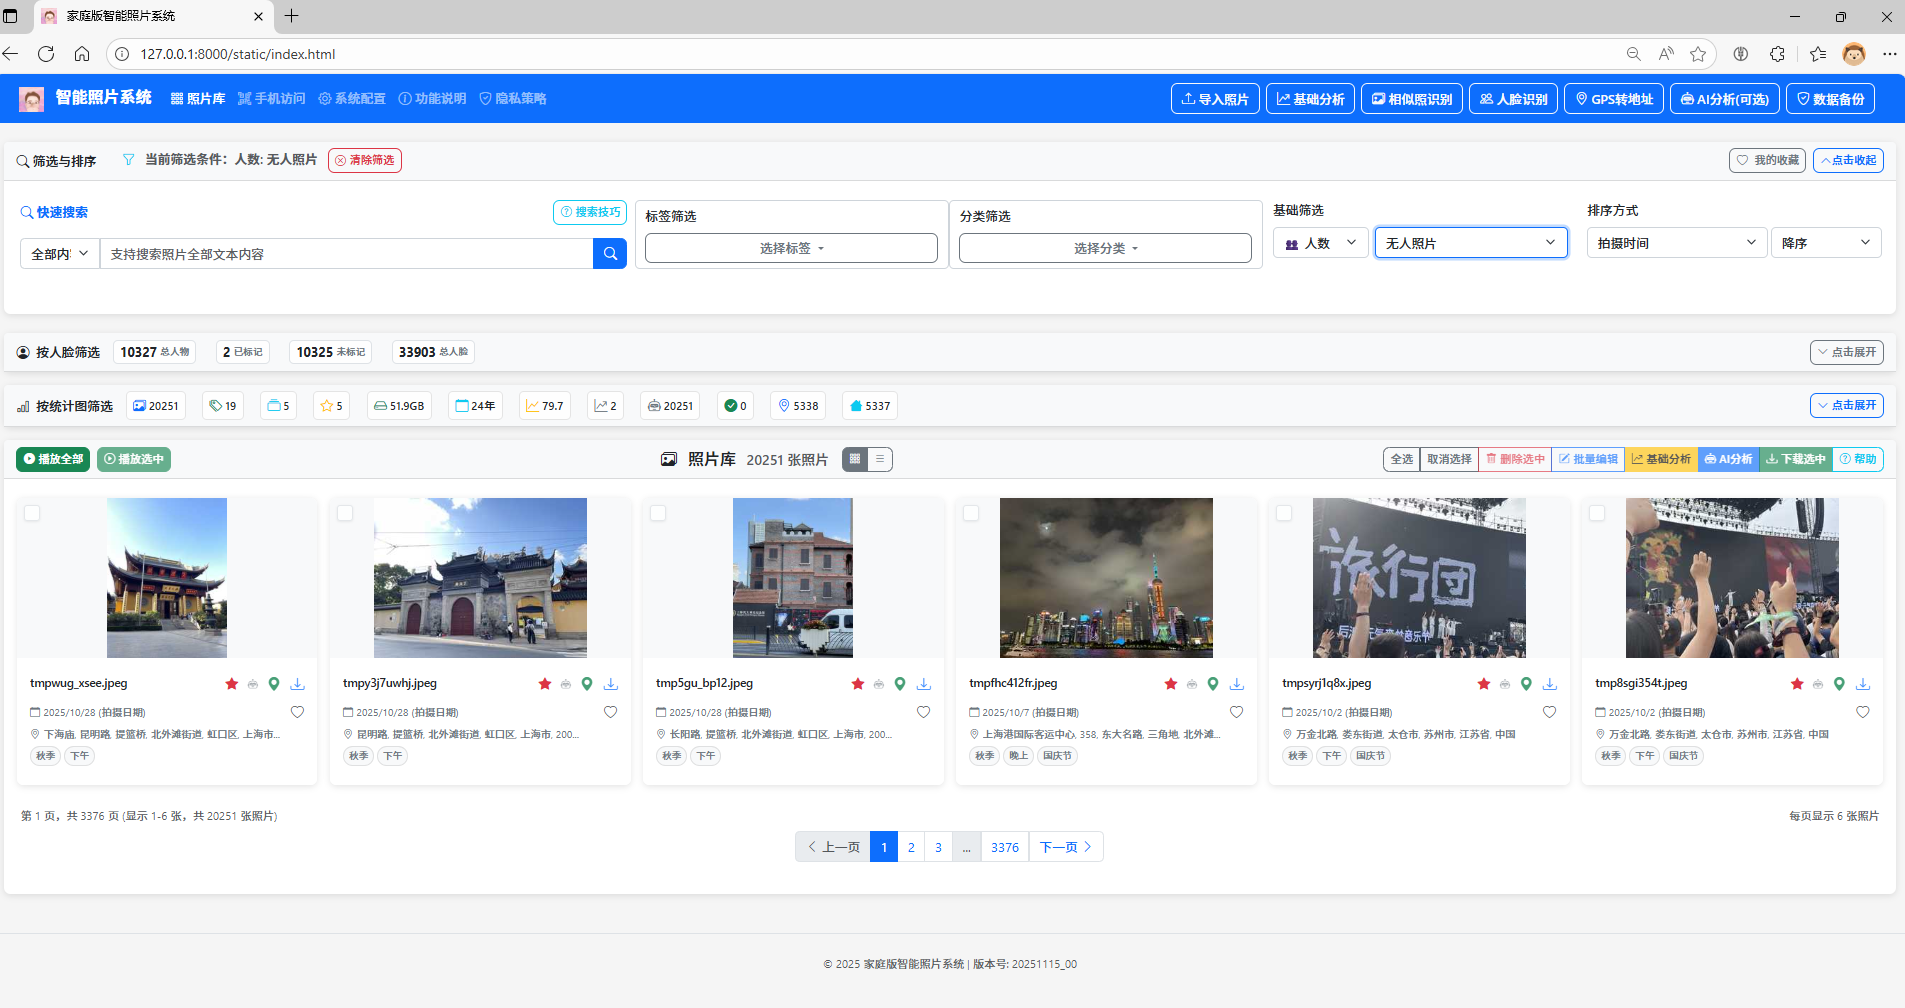
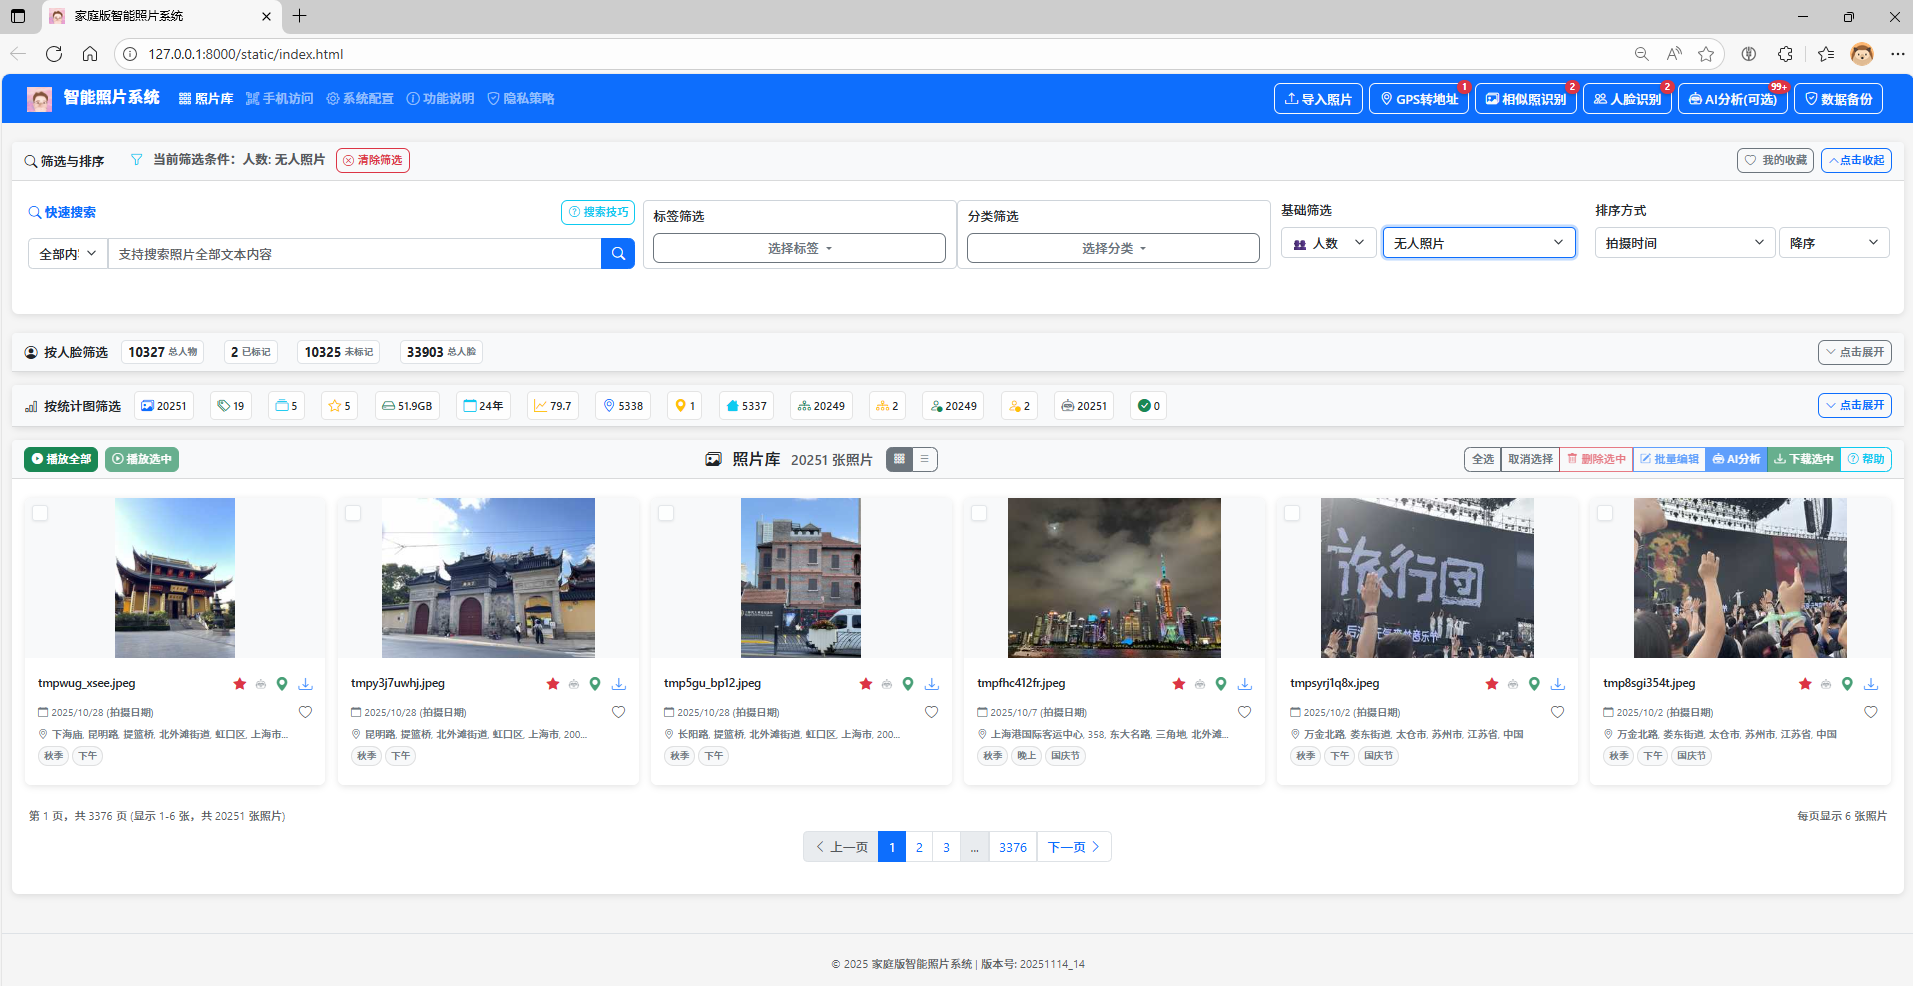
更新README和演示图片

diff --git a/README.md b/README.md
@@ -15,7 +15,7 @@
 
 | 🔒 数据永不离身<br>隐私无忧 | 🏠 家庭组网<br>随时随地访问 | 🤖 智能分析<br>灵活选择 |
 |:---:|:---:|:---:|
-| ✅ 放在家里安心<br>✅ 从不上传云端<br>✅ 本地存储便携<br>✅ 隐私完全自主掌控 | ✅ 一台主机多端同步<br>✅ 多设备无缝访问<br>✅ 触摸友好操作<br>✅ 家庭共享协作 | ✅ 基础分析（获取数据）<br>✅ AI分析（深度识别）<br>✅ 人脸识别<br>✅ 重复检测 |
+| ✅ 放在家里安心<br>✅ 从不上传云端<br>✅ 本地存储便携<br>✅ 隐私完全自主掌控 | ✅ 一台主机多端同步<br>✅ 多设备无缝访问<br>✅ 触摸友好操作<br>✅ 家庭共享协作 | ✅ 质量评估和基础标签生成<br>✅ AI分析（深度识别）<br>✅ 人脸识别<br>✅ 重复检测 |
 
 
 | 🔍 超强搜索和统计功能 | 👤 人脸识别与管理 | 📍 GPS转地址<br>多服务 |
@@ -33,7 +33,7 @@
 3. 初次启动，按提示创建存放照片和数据库的目录，建议选择空间足够放你所有照片的磁盘。
 4. 系统启动后，会自动打开默认浏览器进入照片系统
 5. 注意：启动完成后，请不要关闭启动窗口
-6. 如果你担心磁盘损坏导致照片丢失，建议你经常将你存放照片和数据库的目录拷贝到别的地方作为备份。
+6. 如果你担心磁盘损坏导致照片丢失，建议你经常执行数据备份功能。
 
 ### 🌐 访问系统
 
@@ -42,7 +42,7 @@
 
 同一家庭网络的其他设备，可通过扫描主机页面上的二维码访问系统，既方便又快捷。
 
-**导航栏功能：** 页面顶部提供快速入口，包括**导入照片**、**基础分析**、**相似照识别**、**人脸识别**、**GPS转地址**、**AI分析(可选)、数据备份**等核心功能按钮。
+**导航栏功能：** 页面顶部提供快速入口，包括**导入照片**、**GPS转地址**、**相似照识别**、**人脸识别**、**AI分析(可选)**、**数据备份**等核心功能按钮。
 
 ![屏幕截图 2025-10-16 205620](images/imagedemo1.png)
 
@@ -52,15 +52,14 @@
 
 ### ⚙ 首次使用建议
 
-1. 导入照片到系统中
-2. 先进行**基础分析**（本地快速的基础数据提取、分析和质量评估）
-3. 运行**相似照识别**（基于ResNet50提取图像特征向量，用于高精度相似照片搜索）
-4. 启动**人脸识别**（本地AI模型，自动聚类人物，用于基于人脸筛选）
-5. 进行**GPS转地址**（选择高德、Nominatim或离线三种服务中的一种进行地址解析）
-6. 使用智能搜索和筛选功能管理照片
-7. 享受智能照片管理体验！
-8. 还可以申请并配置免费额度大模型API密钥以便对照片进行更深入AI分析
-9. 如选用高德API解析照片地址，也需申请并配置免费额度高德API密钥
+1. 导入照片到系统中（导入时会自动完成质量评估和基础标签生成）
+2. 进行**GPS转地址**（选择高德、Nominatim或离线三种服务中的一种进行地址解析）
+3. 运行**相似照识别**（基于ResNet50提取图像特征向量，用于相似照聚类和高精度相似照搜索）
+4. 启动**人脸识别**（基于本地AI模型提取和识别人脸，用于聚类人物和基于人脸筛选照片）
+5. 使用智能搜索和筛选功能管理照片
+6. 享受智能照片管理体验！
+7. 还可以申请并配置免费额度大模型API密钥以便对照片进行更深入AI分析
+8. 如选用高德API解析照片地址，也需申请并配置免费额度高德API密钥
 
 ---
 
@@ -68,28 +67,30 @@
 
 ### 3.1 📥 照片导入
 
-系统支持多种方式导入照片，确保您的家庭照片库完整且有序。
+系统支持多种方式导入照片，确保您的家庭照片库完整且有序。导入时会自动完成质量评估和基础标签生成。
 
 - **单文件上传：** 点击"导入照片"按钮，选择单个文件上传
 - **文件夹扫描：** 选择"扫描文件夹"模式，批量导入整个文件夹
-- **智能处理：** 自动生成缩略图，支持同时处理多张照片
+- **智能处理：**
+  - 自动生成缩略图
+  - 自动完成质量评估（清晰度、亮度、对比度、色彩、构图等）
+  - 自动生成基础标签（时间标签、节假日标签、EXIF标签等）
+  - 支持同时处理多张照片
 - **格式支持：** JPG、PNG、HEIC等多种常见照片格式
 - **处理过程：**批量处理时，当前浏览器窗口可实时显示进度和处理结果，建议不要关闭，但可以打开新窗口访问照片
 
-### 3.2 🤖 智能分析（基础分析 + AI分析）
+### 3.2 🤖 AI分析（可选）
 
-系统提供两种分析功能，基础分析获取基础信息并做质量评估，AI分析对照片进行深度分析。
+系统在导入照片时已自动完成质量评估和基础标签生成。如需更深入的内容分析，可使用AI分析功能对照片进行深度分析。
 
-#### 🎯 分析功能分为两步
+#### 🎯 AI分析功能
 
-
-| 📊 基础分析 | 🤖 AI分析（需申请AI密钥） |
-|:----|:----|
-| ✅ **质量评估：** 分析照片的技术质量，包括清晰度、亮度、对比度、色彩、构图等指标<br>✅ **基础标签：**生成时间标签、节假日标签、EXIF标签等基础信息<br>✅ **无需网络：**可在离线环境下使用，速度快<br>✅**重新分析:** 处理过的照片可以重新分析 | ✅ **AI内容分析：** 使用千问大模型识别照片中的物体、场景、人物情感等，生成详细描述<br>✅ **智能分类：**基于AI分析结果自动为照片添加合适的标签和分类<br>✅ **需要网络：**需要有效的API密钥和上网连接<br> ✅**重新分析:** 处理过的照片可以重新分析 |
+| 🤖 AI分析（需申请AI密钥） |
+|:----|
+| ✅ **AI内容分析：** 使用千问大模型识别照片中的物体、场景、人物情感等，生成详细描述<br>✅ **智能分类：**基于AI分析结果自动为照片添加合适的标签和分类<br>✅ **需要网络：**需要有效的API密钥和上网连接<br>✅ **重新分析：**处理过的照片可以重新选择进行分析，更新分析结果 |
 
 #### ⚠ 提示
 - 因为系统已经有了本地的人脸识别等功能，因此AI分析的必要性就不是特别大了
-
 - 批量分析时，当前浏览器窗口可实时显示进度和处理结果，建议不要关闭，但可以打开新窗口访问照片
 
   
@@ -184,7 +185,7 @@
 
 **开始特征提取：**
 
-- **入口：** 点击导航栏"特征提取"按钮
+- **入口：** 点击导航栏"相似照识别"按钮
 - **批量处理：** 系统自动提取所有照片的特征向量
 - **进度显示：** 显示处理进度、成功/失败统计和详细结果
 
@@ -216,7 +217,7 @@
 - **悬停预览：** 鼠标悬停显示照片详细信息和快速操作按钮
 - **相似照片：** 点击相似照片按钮查看内容相似的相关照片
 - **编辑信息：** 修改照片名、描述、添加或编辑标签和分类、补充拍摄时间、地址等
-- **批量操作：** 选择多张照片进行批量删除、下载、编辑、重新地址转换、基础分析、AI分析等
+- **批量操作：** 选择多张照片进行批量删除、下载、编辑、重新地址转换、AI分析等
 
 #### 📋 照片详情查看
 
